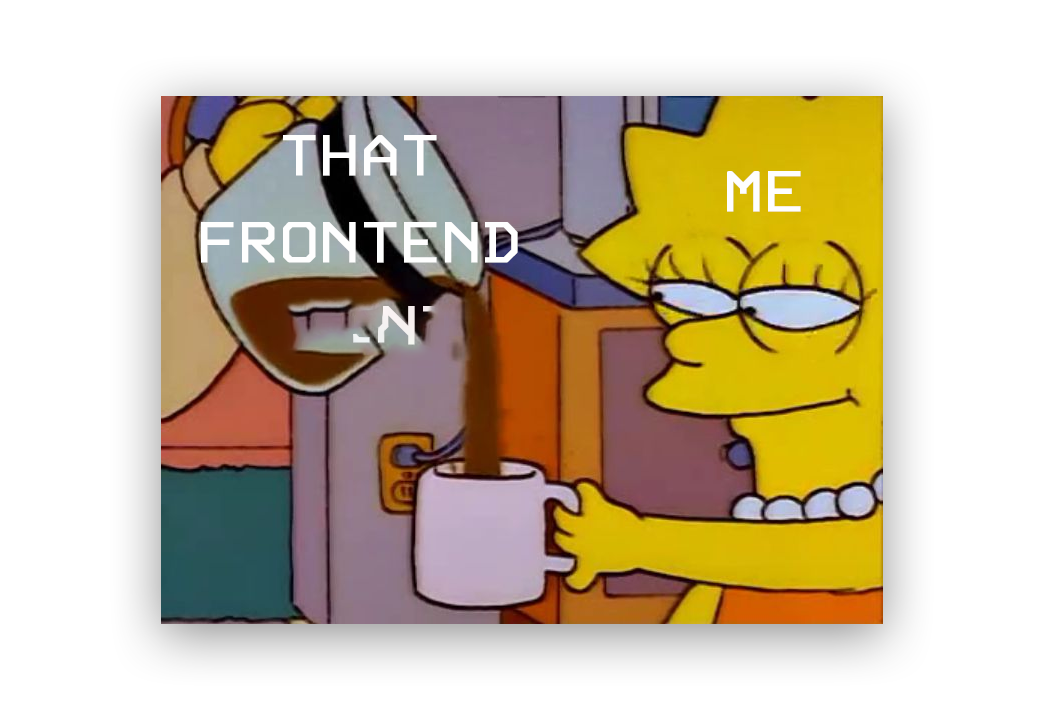
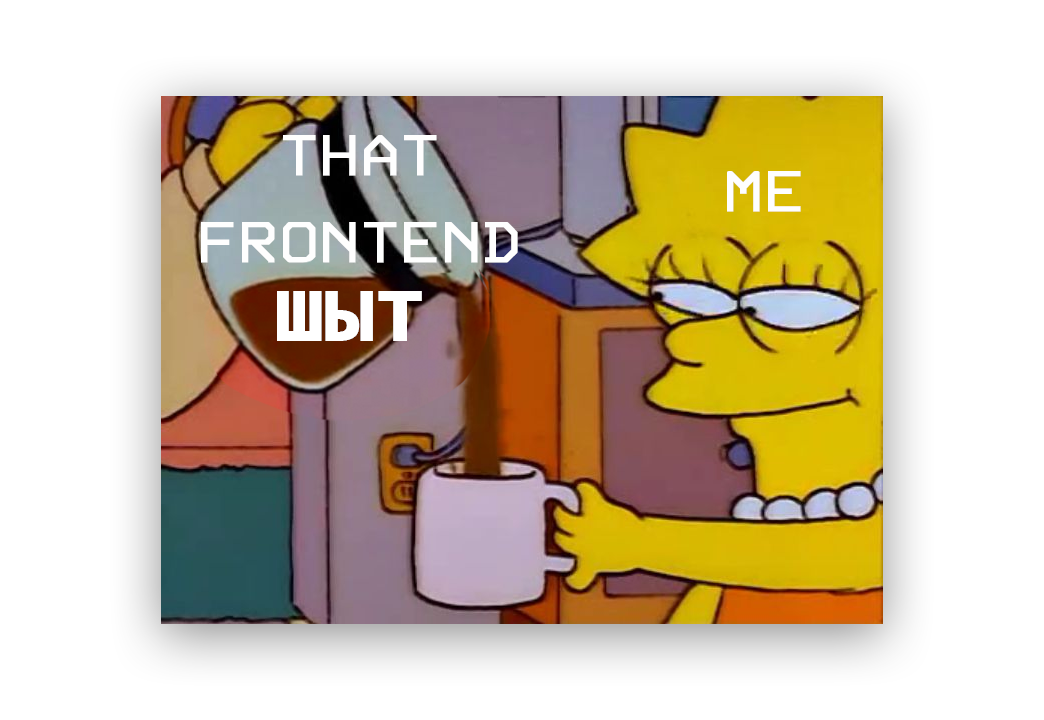
Ru

Changed region(s): [[0.2146, 0.3667, 0.4904, 0.5806]]

diff --git a/index.html b/index.html
@@ -39,8 +39,8 @@
 					src="img/ministry.png"></section>
 			<section data-auto-animate><img src="img/me.png" class="me"></section>
 			<section data-auto-animate>
-				<!-- <img src="img/me-twitter.png"> -->
-				<img src="img/me-twitter-en.png">
+				<img src="img/me-twitter.png">
+				<!-- <img src="img/me-twitter-en.png"> -->
 			</section>
 			<section data-background="img/bg.png">
 				<div>
@@ -87,8 +87,8 @@
 
 			</section>
 			<section>Disclamer #2:<br>
-				<!-- <img src="img/frontend.png"> -->
-				<img src="img/frontend-en.png">
+				<img src="img/frontend.png">
+				<!-- <img src="img/frontend-en.png"> -->
 			</section>
 			<section>
 				<section data-auto-animate>
@@ -339,7 +339,7 @@ const Counter = () => {
 			<section data-background="img/end-right.png" style="text-align: left;">
 				<div id="info">
 					<div class="container"><img src="img/1.png">
-						<h4 class="white">bunopus_en</h4>
+						<h4 class="white">bunopus</h4>
 					</div>
 					<div class="container"><img src="img/1.png">
 						<h4 class="white">WrikeTechClub</h4>
